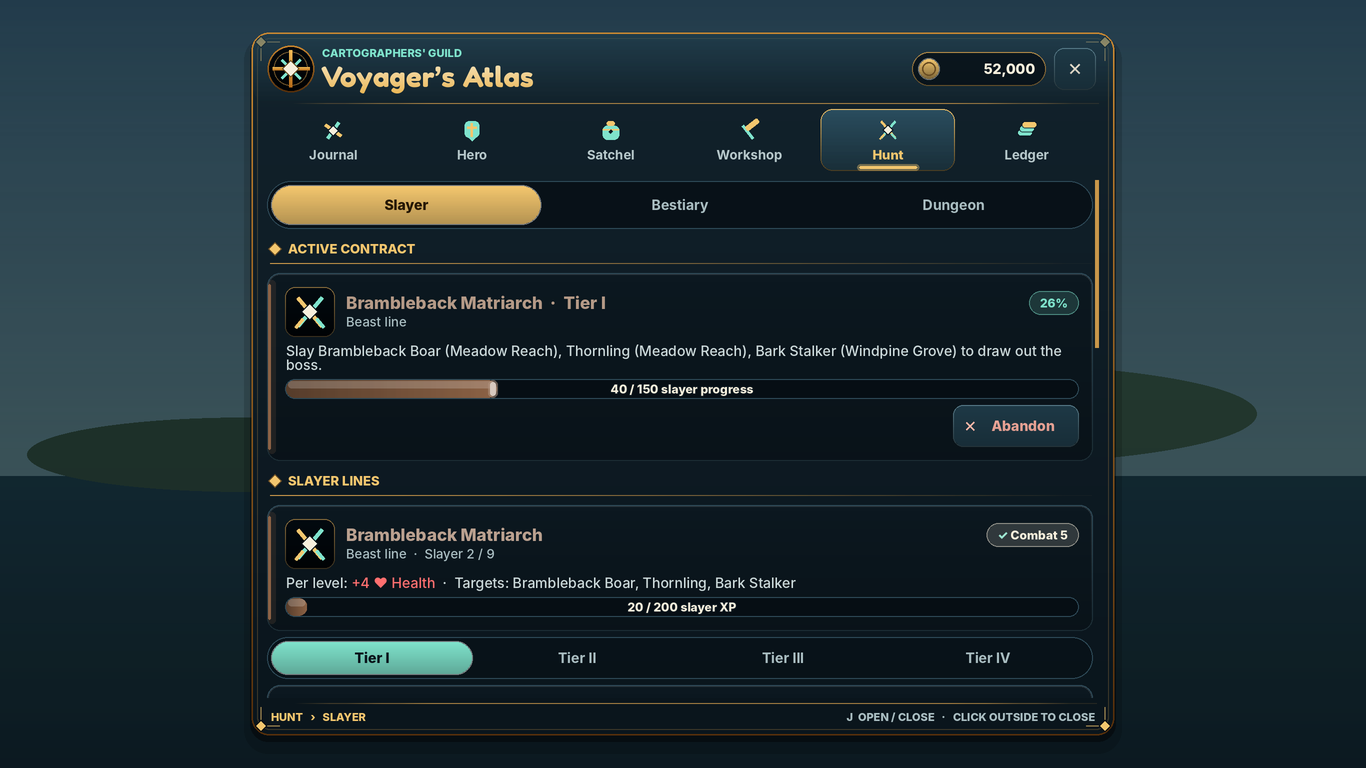
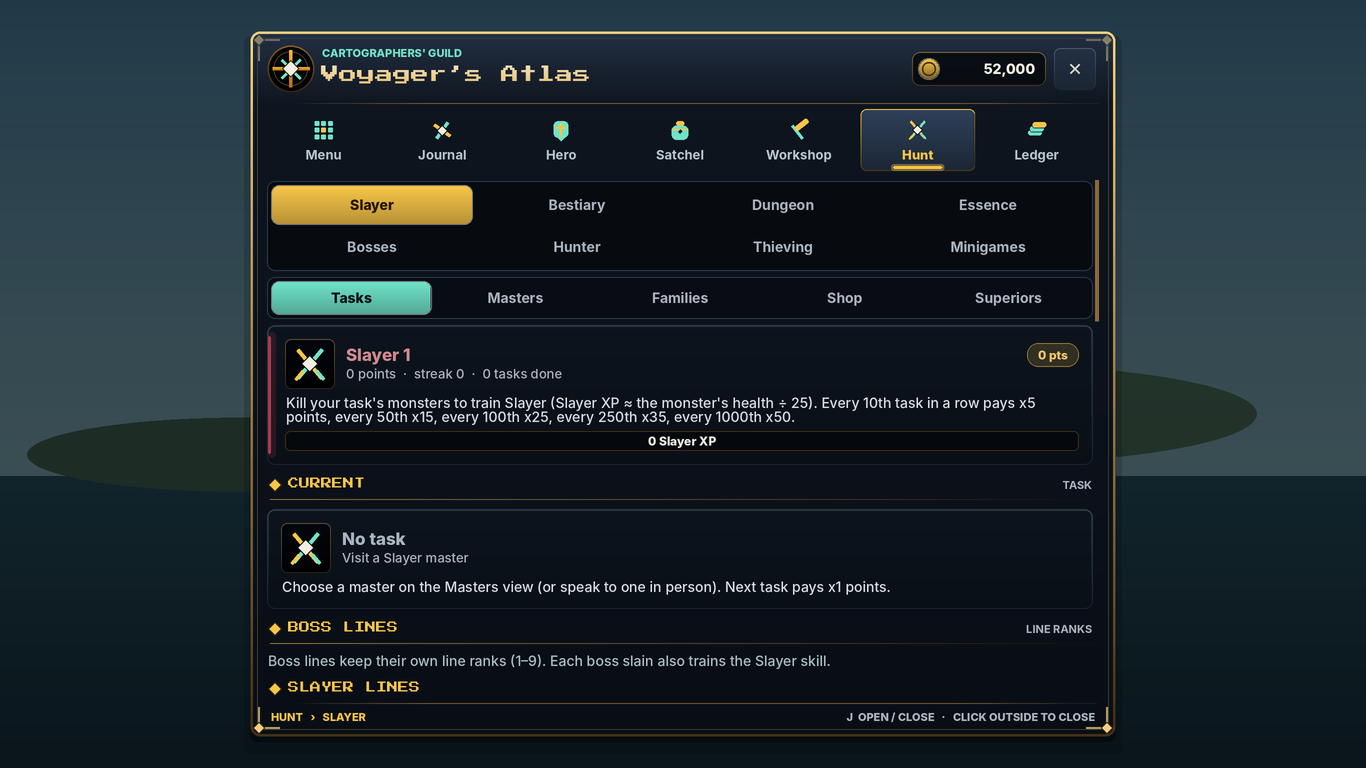
Docs: §29 UI system; curated Skyforge renders; chat docks bottom-left
Claude-Session: https://claude.ai/code/session_01FkUNqZEFYap7XtGbpVDhXd

diff --git a/docs/screenshots/README.md b/docs/screenshots/README.md
@@ -1,7 +1,8 @@
 # Atlas & HUD screenshots
 
 > **These are renders from an approximate layout emulator, not Roblox captures.**
-> `tools/render-ui.luau` runs `ui.client.lua` and `combat.client.lua` headlessly
+> `tools/render-ui.luau` runs `ui.client.lua`, `combat.client.lua`, `hud.client.lua`
+> and `nav.client.lua` headlessly
 > against a mock instance tree with a mid-game snapshot, and
 > `tools/rasterize-ui.py` lays the resulting GUI tree out with a re-implementation
 > of the parts of Roblox's layout model the atlas uses, then draws it with Pillow.
@@ -20,8 +21,9 @@ lune run tools/render-ui.luau [outDir] [filter] [--full] [--issues] [--sizes=136
 - `outDir` — where PNGs go (default `build/screenshots`, untracked; do not commit
   bulk output — curate into this folder). One subfolder per size:
   `desktop` (1366x768), `phone` (844x390), `compact` (730x303).
-- `filter` — substring of `<Tab>-<Section>` (e.g. `Ledger`, `Hero-Gear`), `HUD` or `Builder`
-  (the island builder controls, `build.client.lua`).
+- `filter` — substring of `<Tab>-<Section>` (e.g. `Ledger`, `Hero-Gear`, `Menu`), `HUD`
+  (`HUD-Satchel`, `HUD-ContextMenu`, `HUD-Gear`), `WarpMap` or `Builder` (the island
+  builder controls, `build.client.lua`).
 - `--full` — also write `<page>-full.png`, the atlas ScrollingFrame unrolled to
   its whole canvas height (the normal PNG shows only what fits on screen).
 - `--issues` — print automated findings: text under 11 px, truncated
@@ -60,79 +62,60 @@ Not modelled: UIScale (renders at rest scale 1), CanvasGroup, images/textures,
 UIListLayout wrapping/flex, rotated children, top-bar inset, gamepad selection
 rings.
 
-## Design system ("Aether Brass")
+## Design system ("Skyforge", UI overhaul — docs/DEPTH-CONTRACT.md §29)
 
-- **Surfaces** (dark → light): track `060E14` (wells, bar tracks) · deep `0C1820`
-  (cards, tiles) · ink `12222C` (window) · slate `1E3946` (controls) · raised
-  `2A4D5E` (selected/hover). Every plate gets a vertical sheen (UIGradient), a
-  1px inner bevel highlight that fades downwards, and a rim stroke whose
-  gradient lights the top edge.
-- **Accents**: brass `C9974A` rims and ornaments, gold `F3C66E` headings and
-  primary actions, mint `7FE3CC` state/selection, ember `EF7D67` danger/locked.
-- **Ornament**: corner gems with L-bracket arms (rotated frames) on the atlas
-  window, level-up banner, bank plate and boss panel; double rim on the window;
-  ribbon tab on the level-up banner; fading brass hairline dividers.
-- **Type scale**: display FredokaOne 22–28 (titles, banner) · heading Builder
-  Sans ExtraBold 13–17 (card titles, section headings in gold caps) · label
-  Builder Sans Bold 11–14 · body Builder Sans Medium 12–14. Floor 11px (12px on
-  phones).
-- **Spacing**: 4px grid; cards pad 14 (10 on phones), lists gap 8.
-- **Components**: segmented section bars in a sunken well (gold = page section,
-  mint = in-page filter); buttons with primary (gold) / secondary / danger /
-  disabled tones, leading action glyphs, hover wash, press scale and a brass
-  gamepad selection ring; pill status badges; rarity item plates with glow from
-  Rare up and an "E" tag for equipped gear; gradient meters with gloss and a
-  glowing end cap; tick-box checklists; depth-bar order book; two-card stat sheet.
-- **Motion**: atlas opens with a slide + Back-eased scale and a shade fade; page
-  and section switches slide content up 10px; toasts rise in; the level-up
-  banner pops in.
+All tokens and components live in `shared/UiTheme.lua` (`ReplicatedStorage.AetherUiTheme`).
+
+- **Surfaces** (dark → light): void `05080C` (tracks, wells) · inset `0B1017` (slots,
+  cards) · panel `111822` (windows, sidebar) · raised `223042` (controls) · hover `2E4058`.
+  Panels are translucent with a top-lit sheen.
+- **Frames**: bronze `8A6A3B` rims lit to `F0CE82` at the top, an inner hairline, and
+  four gold corner studs with bracket arms ("9-slice" built from frames, no images).
+- **Accents**: gold `F7C548` headings and primary actions, mint `6FE3C8` state,
+  ember `FF6B5A` danger/locked; bars health `FF4F4F`, defense `57D96A`, mana `4FA8FF`.
+- **Rarity tiers**: Common `FFFFFF`, Uncommon `55FF55`, Rare `6E7BFF`, Epic `C04CFF`,
+  Legendary `FFAA00`, Mythic `FF55FF` (+ reserved Divine / Special): slot borders,
+  tooltip names and footers.
+- **Type**: pixel display face (Roblox Arcade = Press Start 2P, vendored OFL in
+  `tools/fonts`) for titles, section heads, stack counts and XP drops; Builder Sans
+  ExtraBold / Bold / Medium for everything read. Floor 11 px (12 on phones).
+- **Components**: item slot (pictogram, rarity border, count, equipped tag, cooldown
+  sweep), lore tooltip, buttons (primary / secondary / danger / selected / ghost),
+  tabs, bars, ornate frames; original item pictograms drawn from frames.
+- **HUD lanes** (`Theme.hudLayout`): minimap top-left, sidebar top-right, a 9-slot
+  hotbar gap bottom-centre with the action bar in the band above it, left/right
+  columns for trackers and party/minigame/lair HUDs, a top lane for target panels.
+
+The hotbar in these renders is a **stand-in** drawn with Theme slots where
+`hotbar.client.lua` (Held Items team, not in this branch) places its bar.
 
 ## Index
 
-All renders come from the redesigned UI unless prefixed `before-`.
-
 | File | Size | What |
 | --- | --- | --- |
-| `desktop-Journal-Bearing.png` | 1366x768 | Numbered heading, next goal, route chart, guild contract with primary Claim |
-| `desktop-Journal-Diaries.png` | 1366x768 | Diary tiers: tier pips, tick-box task checklists, progress meters |
-| `desktop-Journal-Calendar.png` | 1366x768 | Skyward Calendar: season pips, day meter, countdowns, festivals |
-| `desktop-Journal-Crew.png` | 1366x768 | Crew page: homestead level meter, roster, stores |
-| `desktop-Hero-Skills.png` | 1366x768 | Skill tiles with level medallions, perks and gradient meters |
-| `desktop-Satchel-Items.png` | 1366x768 | Rarity item plates with glow, stack counts, equipped tags |
-| `desktop-Satchel-ItemDetail.png` | 1366x768 | Item detail card: Equip (primary), Enchant, Sell |
-| `desktop-Workshop-Forge.png` | 1366x768 | Station card with skill meter, category filter, recipe cards |
-| `desktop-Hunt-Slayer.png` | 1366x768 | Active contract (danger-toned Abandon), slayer lines, tier filter |
-| `desktop-Ledger-Bank.png` | 1366x768 | Ornamented balance plate, amount well, presets, gold Transfer |
-| `phone-Hero-Skills.png` | 844x390 | Side tab rail, skills grid |
-| `phone-HUD.png` | 844x390 | HUD: guild badge, boss panel, banners, toast, action bar pills, attack button |
-| `phone-Builder.png` | 844x390 | Island builder controls above the action bar |
-| `compact-HUD.png` | 730x303 | Short-screen HUD: slim level-up banner clears the toast |
-| `compact-Satchel-Items.png` | 730x303 | Rail layout, item grid |
+| `desktop-HUD.png` | 1366x768 | Minimap with region + coordinates, isle sidebar (date, time, region, purse, Skymarks, objective, crew, dock), boss panel, level-up banner, OSRS XP drops + skill toast, action bar over the hotbar, spell bar + Attack |
+| `phone-HUD.png` / `compact-HUD.png` | 844x390 / 730x303 | The same HUD on phones: 44 px minimap column, folded sidebar, spell bar centred in the hotbar band |
+| `desktop-HUD-Satchel.png` | 1366x768 | Docked satchel (7 × 4, bag pages, search, sort, equipped tags) with a lore tooltip |
+| `phone-HUD-Satchel.png` / `compact-HUD-Satchel.png` | 844x390 / 730x303 | Satchel modal (7 × 4; 14 × 2 on 303 px screens), 44 px controls |
+| `desktop-HUD-ContextMenu.png` | 1366x768 | Right-click menu: Wield / Move to hotbar / Examine / Sell / Drop |
+| `desktop-HUD-Gear.png` / `phone-HUD-Gear.png` | 1366x768 / 844x390 | Paperdoll (bag · head · pet / weapon · body · quiver / legs / feet) beside the stat sheet |
+| `desktop-WarpMap.png` / `phone-WarpMap.png` / `compact-WarpMap.png` | all | Sky Chart: illustrated isles, warp points, padlocks with requirements, "you are here" |
+| `desktop-Menu-Home.png` / `phone-Menu-Home.png` / `compact-Menu-Home.png` | all | Main menu grid (12 icon tiles with live captions) |
+| `desktop-Menu-Settings.png` | 1366x768 | HUD preferences (pin satchel, XP drops, minimap) and keys |
+| `desktop-HUD-Dungeon.png` | 1366x768 | Observatory party HUD in the right column under the sidebar |
+| `compact-HUD-Agility.png` | 730x303 | Lap tracker and trap counter in the left column, clear of the hotbar |
+| `desktop-Journal-Bearing.png` | 1366x768 | Re-skinned page: pixel section heads, bronze frames |
+| `desktop-Journal-Diaries.png`, `desktop-Journal-Calendar.png`, `desktop-Journal-Crew.png`, `desktop-Journal-Agility.png` | 1366x768 | Journal pages in the new theme |
+| `desktop-Hero-Skills.png`, `desktop-Hero-Combat-full.png`, `desktop-Hero-Spellbook.png` | 1366x768 | Hero pages |
+| `desktop-Satchel-Items.png`, `desktop-Satchel-ItemDetail.png`, `compact-Satchel-Items.png` | | Atlas Satchel › Items (kept alongside the HUD satchel) |
+| `desktop-Workshop-Forge.png`, `desktop-Hunt-Slayer.png`, `desktop-Hunt-Bestiary.png`, `desktop-Hunt-Hunter.png`, `desktop-Ledger-Bank.png` | 1366x768 | Workshop, Hunt and Ledger pages |
+| `phone-Hero-Skills.png`, `phone-Ledger-Vendors.png`, `phone-Builder.png` | 844x390 | Phone rail layout, vendors, island builder (the action bar steps aside) |
 
-Before / after (four key pages):
+Before / after (the previous "Aether Brass" design → Skyforge):
 
-| Before | After | Change |
-| --- | --- | --- |
-| `before-desktop-Hero-Gear.png` | `after-desktop-Hero-Gear.png` | 3-column stat chips → two titled stat cards (Combat, Gathering & luck) with glyph chips and zebra rows; layered window, ornamental corners, crisp tab plates, segmented section well |
-| `before-desktop-HUD.png` | `after-desktop-HUD.png` | Flat text action bar → health meter / XP pill (skill medallion + level meter) / defense pills; level-up banner with ribbon, medallion and ornaments; boss panel with level medallion, ember rim and corner gems; ribbon toast and event banner |
-| `before-phone-Ledger-Orders.png` | `after-phone-Ledger-Orders.png` | Order book lines → depth-bar order book; rarity plates; pill badges; rail with selected tab glow |
-| `before-desktop-Journal-Quests-full.png` | `after-desktop-Journal-Quests-full.png` | Inline ✓/✗ text → tick-box checklists with right-aligned counts, status pills, gold Claim |
-
-Combat styles (bows, staves, spells):
-
-| File | Size | Shows |
-| --- | --- | --- |
-| `combat-desktop-HUD.png` | 1366x768 | Mana pill beside health, spell bar (style chip with mana, autocast slot, greyed unaffordable slot, cost captions), CAST button |
-| `combat-compact-HUD.png` | 730x303 | The same HUD on a short phone: spell bar left of the Attack button, toasts lifted above it |
-| `desktop-Hero-Combat-full.png` | 1366x768 | Hero › Combat: style card with mana meter, quiver and arrows, combat levels, triangle explainer, switch-style weapons |
-| `desktop-Hero-Spellbook.png` | 1366x768 | Hero › Spellbook: autocast summary, spell costs (staff-supplied glyphs free), damage estimate |
-| `desktop-Hunt-Bestiary.png` | 1366x768 | Bestiary entries with attack style, weakness and resistance |
-
-Agility & Hunter:
-
-| File | Size | Shows |
-| --- | --- | --- |
-| `compact-HUD-Agility.png` | 730x303 | Lap tracker (course, obstacle 3/6, next obstacle, step countdown, obstacle pips, best lap) and trap counter in the left column, narrow so the toast clears them |
-| `desktop-Journal-Agility.png` | 1366x768 | Journal › Agility: Skyrunner's log (lap milestones, Surefoot), course cards with obstacle chains, slip chance, lap-milestone pips, Guide |
-| `desktop-Hunt-Hunter.png` | 1366x768 | Hunt › Hunter: Tracker's log, traps in the field, hunter log entries with log-tier pips, kit, catch chance and drops |
-| `phone-Ledger-Vendors.png` | 844x390 | Ledger › Vendors: Skymark Exchange open with countdown, Skymark purse, stock with owned badges |
+| Before | After |
+| --- | --- |
+| `before-desktop-HUD.png` | `after-desktop-HUD.png` |
+| `before-desktop-Hero-Gear.png` | `after-desktop-Hero-Gear.png` |
+| `before-phone-Ledger-Orders.png` | `after-phone-Ledger-Orders.png` |
+| `before-desktop-Journal-Quests-full.png` | `after-desktop-Journal-Quests-full.png` |

diff --git a/docs/DEPTH-CONTRACT.md b/docs/DEPTH-CONTRACT.md
@@ -270,3 +270,46 @@ Owner: Bossing team. Rules and data live in the `-- >>> BEGIN Lairs` section of 
 - **Balance (`LR.model`; printed by verify-bosses).** DPS at a level = the best open monster's effective health / 8 s (the 300 kills/h solo model), uptime 75%, weakness used, +60 s per kill (altar, warmup, return). Solo per hour (coins net of the fee, drops at merchant value): Bramblemaw 83 s fights, 25.1 kills, 26.1k Combat XP (0.92× solo grinding at 30), 11.4k coins (1.03× Slayer with Corvane's bounties); Aerisca 121 s, 19.9, 59.6k (0.90×), 24.2k (0.98× Slayer/Maelis); Pyrewarden 190 s, 14.4, 112.9k (1.05×), 30.5k (0.95×); Nihlvar 174 s, 15.4, 189.3k (0.90×), 56.7k (0.99× Slayer/Harrowgale). A party of three earns per member ≤ 1.2× Slayer. Against Master Mode (coins + free-chest value) at II/IV/VI/VII: 1.53× / 1.38× / 0.79× / 1.06× — dungeons also pay Dungeoneering XP, essence and Starcores. Asserted: XP/h and coins/h 0.6–1.25× the references (solo and party), pets 25–60 h, weapons 3–20 h, fees ≥ 40% of the coin roll, every boss pays more per hour than the one before.
 - **World.** 20 static parts (4 × dais, Obelisk-slot altar stone, 2 Torch-slot torches, return anchor), no lights; 3,897 total. Gestures: `lairEnter` / `lairLeave` map to `interact` (`Core.ACTION_GESTURE`).
 - **Lead decisions requested:** (1) joining is limited to the host's co-op crew (`CoopId`); friends/party invites would need a new verb; (2) death applies the global 10% purse-coin loss — exempting lairs needs a hook in the Humanoid.Died handler; (3) `verify-pets.luau` gained one line so lair pets count as obtainable (scans `Data.Lairs.Loot`).
+
+## 29. UI system (UI overhaul: "Skyforge")
+
+One visual language for every client script, in a shared module consumed (never forked) by the atlas, the HUD, the satchel, the Wayfinder, the combat HUD, the townsfolk dialogue and — once merged — the hotbar.
+
+| Module / script | File | Roblox location |
+|---|---|---|
+| `AetherUiTheme` | `shared/UiTheme.lua` | `ReplicatedStorage.AetherUiTheme` |
+| `IsleHud` | `hud.client.lua` | `StarterPlayerScripts.IsleHud` (ScreenGui `IsleHud`, DisplayOrder 9) |
+
+**Tokens.** `Theme.hex` / `Theme.color`: surfaces void `05080C` < inset `0B1017` < panel `111822` < raised `223042` < hover `2E4058`; bronze frame `8A6A3B` lit to `F0CE82` (top) / `3E2C15` (foot); gold `F7C548` (headings, primary), mint `6FE3C8` (state), ember `FF6B5A` (danger, locked); bars: health `FF4F4F`, defense `57D96A`, mana `4FA8FF`, XP `8EE05A`. `Theme.Rarities` covers every `Data.RarityOrder` tier (same ranks; text colour + a slightly deeper frame colour) plus reserved display tiers Divine and Special. Type: `Theme.font.display` = `Enum.Font.Arcade` (pixel face: titles, section heads, stack counts, XP drops) and Builder Sans ExtraBold / Bold / Medium for everything read; sizes `Theme.text` (floor 11 px desktop, 12 px phones, pixel captions 8–12 px). Spacing on a 4 px grid, corner radius ≤ 7 (the atlas `make()` clamps larger radii; circles keep scale radii), touch floor 44 px.
+
+**Components** (frames, strokes and gradients only — no uploaded images): `Theme.frame` (ornate 9-slice panel: translucent body, top-lit bronze double rim, four corner studs with bracket arms, optional pixel-font title band), `Theme.slot` / `Theme.setSlot` (well, rarity border, pictogram from `Theme.icon`, stack count, equipped tag, hotkey, cooldown sweep; the pictogram rebuilds only when the item id changes), `Theme.icon` (22 original pictograms by slot / kind / category, drawn from rotated frames in the item colour), `Theme.tooltip` / `Theme.showTooltip` (lore card, pooled lines, clamped on screen), `Theme.button` / `Theme.tone` (primary / secondary / danger / selected / ghost), `Theme.tabs` / `Theme.selectTab`, `Theme.bar` / `Theme.setBar` (clamps, ignores NaN), `Theme.rule`, `Theme.ornaments`.
+
+**Pure helpers** (tested headless): `Theme.lore(def, ctx)` — SkyBlock-style lines: name in rarity colour (+ stack count), kind · tier, stat lines (damage first, `Data.StatOrder`), heal / buff, enchantments, ability, description, requirement (ember when unmet), equipped / bagged state, sell value, `RARITY KIND` footer. `Theme.examine(def)`. `Theme.itemActions(def, ctx)` — the context menu, each option mapped to an existing validated verb: Wield / Equip → `equip "<id>"`, Unequip → `unequip "<slot>"`, Eat / Drink → `consume`, Equip (accessory) / Remove → `accessory`, Use (pet item) → `petAdopt`, Sell → `sell "<id>"` (whole stack; confirms at ≥ 500 coins), Drop → `drop` (always confirms), Use (materials) → opens the item's collection, Move to hotbar → `ReplicatedStorage.HotbarApi:Invoke("assign", slot, id)`, Examine → local toast. Equipped / bagged items never offer Sell or Drop. `Theme.sortItems`, `Theme.isleClock(t, Data)` (season, day, 12-hour isle time from `Data.calendarAt`), `Theme.WorldMap` (isle layout from `world.server.lua`: world x/z/r for minimap tints, chart u/v/size for the Sky Chart, travel = recall or guide).
+
+**HUD lanes — `Theme.hudLayout(w, h, {touch, satchelOpen})`.** Every HUD script places itself from this one table; `verify-ui` checks it at 1366×768, 844×390 and 730×303.
+- *Hotbar gap* (owned by `hotbar.client.lua`, the Held Items team): 9 slots of 52 px (46 below 520 px), gap 4, 6 px from the foot, plus a 70 px band above it. `Theme.HOTBAR` and `Theme.hotbarStyle()` (the hotbar's `STYLE` keys in theme colours) let the hotbar adopt the look by replacing its `STYLE` table.
+- *Action bar*: in the band, hotbar-wide on desktop (narrower on phones, 26 / 20 px tall): health meter `1,230/1,230 ❤`, `733 ❈ Defense`, mana meter `167/167 ✎ Mana`. Hidden while the island builder runs.
+- *Minimap* (Wayfinder, top-left): 156 px map, region + coordinates strip and a −/+/Go/Map row on desktop; 118 px (96 px under 340 px) with the strip inside the map and a 44 px Go/Map column on touch (tap the map to zoom). Publishes the local attribute `IsleRegionHere` (region id, `Home`, `Skyways`).
+- *Sidebar* (top-right scoreboard, `AetherAtlas.Sidebar`): `AETHER ISLES`, isle date and Year, time with sun/moon, region, Purse and Skymarks, objective, crew; dock buttons MENU (`AtlasButton`, J), BAG (E / Tab), MAP (Sky Chart, M). Compact layouts fold lines together.
+- *Left column* under the minimap: tutorial tracker, lap tracker, trap counter (ending above the hotbar). *Right column* under the sidebar (`rightTop`, `rightEdge`): party / minigame / lair HUDs and the world boss board, stepping left of a docked satchel (`IsleSatchelOpen`). *Top lane* between them: target / boss panel, event banner, Wayfinder toast. Touch: Attack bottom-right; the spell bar sits left of it on wide screens and centres in the hotbar band (prayer bar above it) on phones; toasts float above the band.
+- *Chat*: `hud.client.lua` docks the chat window bottom-left (`ChatWindowConfiguration`), the lane (`L.chat`) left clear of persistent HUD on desktop.
+
+**Satchel (OSRS inventory).** E / Tab, the BAG dock button or `IsleHudLocal:Fire("satchel")`. Desktop: docked under the sidebar (7 × 4 = 28 slots, Pin keeps it open; Settings › Pin the satchel); phones: a modal over a dim shade (7 × 4, 14 × 2 on 303 px screens), every control ≥ 44 px. Bag pages (‹ ›), search (name / kind), sort (rarity → name → kind → value, saved with `satchelSort`), drag a slot onto another to reorder (`satchelMove`), left click = first option (Wield / Eat …), right click or long-press (touch: tap selects + lore, second tap) = context menu, hover = lore tooltip. **Gear** tab: OSRS paperdoll (bag · head · pet / weapon · body · quiver / legs / feet; empty bag / pet slots open their atlas pages) beside the stat sheet.
+
+**XP drops.** The atlas publishes every XP gain on `ReplicatedStorage.IsleXpLocal` as `{{skill, amount, level, fraction, maxed, color}, …}` (≤ 3); `hud.client.lua` floats OSRS-style `+48 Mining XP` counters under the sidebar (pooled labels, tweened) and a skill progress toast (level, gain, % bar). Level-up banners stay in the atlas.
+
+**Sky Chart (warp map).** MAP / M: illustrated floating isles (grass crown with tufts, layered rock and spires) on a sky canvas with labelled warp points; locked isles show a padlock and their requirement (`depth.regions`, `<Region>Unlocked`). Compass Quay and Your Isle travel with the recall charm (`recall "Hub"` / `"Home"`, its cooldown and damage gate apply); region isles set a Wayfinder waypoint to their skyway beacon (`WayfinderRequest`), where the in-world warp happens. "You are here" follows `IsleRegionHere`.
+
+**Main menu.** The atlas opens on **Menu › Home**: 12 big icon tiles — Skills, Collections, Recipes, Bestiary, Quests, Pets, Wardrobe & Gear, Bank, Market, Satchel, Sky Chart, Settings — each with a live caption; **Menu › Settings** toggles local HUD preferences published as player attributes (`IsleSettingPinSatchel`, `IsleSettingXpDrops`, `IsleSettingMinimap`). Every atlas page keeps its drawer and behaviour; they adopt the theme through the shared tokens, frames and the pixel section heads.
+
+**Local channels** (BindableEvents in ReplicatedStorage): `IsleSnapshotLocal` (snapshots out), `IsleActionLocal` (verbs in — the atlas relays `equip unequip consume sell accessory petAdopt drop satchelMove satchelSort recall` for the HUD, item ≤ 64 chars, one request at a time), `IsleToastLocal`, `IsleXpLocal`, `IsleHudLocal` (`"satchel"`, `"gear"`, `"warpmap"`, or `"open", tab, section` to open an atlas page).
+
+**New server verbs** (`server.server.lua`, through `perform`: alive + lease checked, 0.24 s action cooldown, 0.08 s read throttle, item ≤ 64 chars):
+- `satchelMove "<itemId>:<index>"` — moves an owned item to a 1-based satchel slot (index ≤ 3 digits, clamped to the list). Silent reply.
+- `satchelSort "<rarity|name|kind|value>"` — reorders the whole satchel.
+- `drop "<itemId>"` — destroys the whole stack of an owned item; refused while equipped or in the accessory bag. The client always asks twice.
+- `p.satchel` (≤ 400 ids) is display order only — counts stay in `p.items`; unknown or unowned ids are dropped on read and new items follow by rarity. Snapshots carry `satchel` (the cleaned order).
+
+**Performance.** No per-frame allocations: the minimap redraws at ≤ 10 Hz with pooled markers and only rewrites the coordinates text when it changes; the sidebar clock ticks at 1 Hz (strings only); slots, menu options, tooltip lines and XP drop labels are pooled; tweens are one-shot on state changes.
+
+**For Studio review** (the emulator approximates layout, fonts and gradients): the Arcade face's real metrics, UIStroke gradient rims at 1–2 px, the satchel drag ghost and long-press timing on devices, chat window position against the bottom-left lane, and how the hotbar (another team) sits in its gap.
